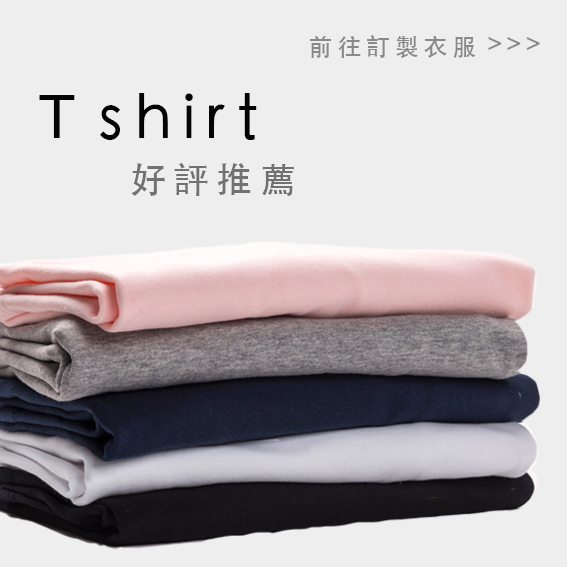
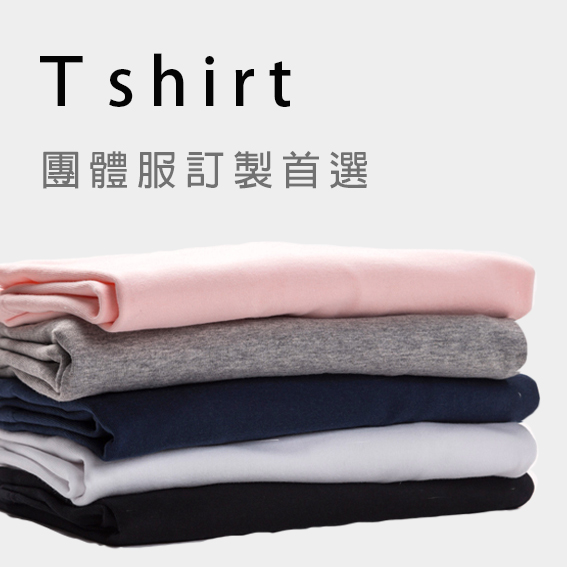
Meeting Change

diff --git a/src/views/Mainpage.vue b/src/views/Mainpage.vue
@@ -2,42 +2,47 @@
   <div>
 
     <el-row>
-      <el-col class="block">
-        <div>
-          <carousel :perPage="1" :autoplay="true" :autoplayHoverPause="true" :autoplayTimeout="3500"
-                    paginationActiveColor="#f26531" :loop="true">
-            <slide>
-              <img src="../assets/MainPage/banner1.jpg" class="carousel-img">
-            </slide>
-            <slide>
-              <div @click="product('Tshirt')" class="bannerClick"><img src="../assets/MainPage/banner2.jpg"
-                                                                       class="carousel-img"></div>
-            </slide>
-            <slide>
-              <div @click="goMaterial()" class="bannerClick"><img src="../assets/MainPage/banner3.jpg"
-                                                                  class="carousel-img"></div>
-            </slide>
-          </carousel>
-        </div>
-      </el-col>
-    </el-row>
-
-    <el-row>
 
       <div id="sm">
+
+        <el-row>
+          <el-col class="block">
+            <div>
+              <carousel :perPage="1" :autoplay="true" :autoplayHoverPause="true" :autoplayTimeout="3500"
+                        paginationActiveColor="#f26531" :loop="true">
+                <slide>
+                  <div @click="goProduct()" class="bannerClick"><img src="../assets/MainPage/banner7.jpg"
+                                                                     class="carousel-img"></div>
+                </slide>
+                <slide>
+                  <img src="../assets/MainPage/banner1.jpg" class="carousel-img">
+                </slide>
+                <slide>
+                  <div @click="product('Tshirt')" class="bannerClick"><img src="../assets/MainPage/banner2.jpg"
+                                                                           class="carousel-img"></div>
+                </slide>
+                <slide>
+                  <div @click="goMaterial()" class="bannerClick"><img src="../assets/MainPage/banner3.jpg"
+                                                                      class="carousel-img"></div>
+                </slide>
+              </carousel>
+            </div>
+          </el-col>
+        </el-row>
+
         <el-row type="flex" justify="center">
           <el-col>
             <el-row>
               <el-col :span="5">
                 <div class="decoration">
-                  <h3 class="features-title">客製產品</h3>
+                  <h3 class="features-title">客製團體服</h3>
                 </div>
               </el-col>
             </el-row>
             <el-row class="items" justify="space-between" type="flex" :gutter="20">
               <el-col :sm="6">
                 <div @click="product('Tshirt')" class="item">
-                  <img src="../../src/assets/MainPage/小圖1_test.jpg" class="features-img">
+                  <img src="../../src/assets/MainPage/小圖1.jpg" class="features-img">
                   <div class="middle">
                     <div class="text">前往商品頁面</div>
                   </div>
@@ -45,7 +50,7 @@
               </el-col>
               <el-col :sm="6">
                 <div @click="product('Hoodie')" class="item">
-                  <img src="../../src/assets/MainPage/小圖2_test.jpg" class="features-img">
+                  <img src="../../src/assets/MainPage/小圖2.jpg" class="features-img">
                   <div class="middle">
                     <div class="text">前往商品頁面</div>
                   </div>
@@ -53,7 +58,7 @@
               </el-col>
               <el-col :sm="6">
                 <div @click="product('Polo')" class="item">
-                  <img src="../../src/assets/MainPage/小圖4_test.jpg" class="features-img">
+                  <img src="../../src/assets/MainPage/小圖4.jpg" class="features-img">
                   <div class="middle">
                     <div class="text">前往商品頁面</div>
                   </div>
@@ -61,7 +66,7 @@
               </el-col>
               <el-col :sm="6">
                 <div @click="product('Bag')" class="item">
-                  <img src="../../src/assets/MainPage/小圖5_test.jpg" class="features-img">
+                  <img src="../../src/assets/MainPage/小圖5.jpg" class="features-img">
                   <div class="middle">
                     <div class="text">前往商品頁面</div>
                   </div>
@@ -86,6 +91,35 @@
       </div>
 
       <div id="xs">
+
+        <el-row>
+          <el-col class="block">
+            <div>
+              <carousel :perPage="1" :autoplay="true" :autoplayHoverPause="true" :autoplayTimeout="3500"
+                        paginationActiveColor="#f26531" :loop="true">
+                <slide>
+                  <img src="../assets/MainPage/b1.jpg" class="carousel-img">
+                </slide>
+                <!--<slide>-->
+                  <!--<div @click="goProduct()" class="bannerClick"><img src="../assets/MainPage/banner7.jpg"-->
+                                                                     <!--class="carousel-img"></div>-->
+                <!--</slide>-->
+                <!--<slide>-->
+                  <!--<img src="../assets/MainPage/banner1.jpg" class="carousel-img">-->
+                <!--</slide>-->
+                <!--<slide>-->
+                  <!--<div @click="product('Tshirt')" class="bannerClick"><img src="../assets/MainPage/banner2.jpg"-->
+                                                                           <!--class="carousel-img"></div>-->
+                <!--</slide>-->
+                <!--<slide>-->
+                  <!--<div @click="goMaterial()" class="bannerClick"><img src="../assets/MainPage/banner3.jpg"-->
+                                                                      <!--class="carousel-img"></div>-->
+                <!--</slide>-->
+              </carousel>
+            </div>
+          </el-col>
+        </el-row>
+
         <el-row type="flex" justify="center">
           <el-col>
             <el-row type="flex" justify="center">
@@ -98,7 +132,7 @@
             <el-row class="items" justify="space-between" type="flex" :gutter="20">
               <el-col :span="12">
                 <div @click="product('Tshirt')" class="item">
-                  <img src="../../src/assets/MainPage/小圖1_test.jpg" class="features-img">
+                  <img src="../../src/assets/MainPage/小圖1.jpg" class="features-img">
                   <div class="middle">
                     <div class="text">前往商品頁面</div>
                   </div>
@@ -106,7 +140,7 @@
               </el-col>
               <el-col :span="12">
                 <div @click="product('Hoodie')" class="item">
-                  <img src="../../src/assets/MainPage/小圖2_test.jpg" class="features-img">
+                  <img src="../../src/assets/MainPage/小圖2.jpg" class="features-img">
                   <div class="middle">
                     <div class="text">前往商品頁面</div>
                   </div>
@@ -116,7 +150,7 @@
             <el-row class="items" justify="space-between" type="flex" :gutter="20">
               <el-col :span="12">
                 <div @click="product('Polo')" class="item">
-                  <img src="../../src/assets/MainPage/小圖4_test.jpg" class="features-img">
+                  <img src="../../src/assets/MainPage/小圖4.jpg" class="features-img">
                   <div class="middle">
                     <div class="text">前往商品頁面</div>
                   </div>
@@ -124,7 +158,7 @@
               </el-col>
               <el-col :span="12">
                 <div @click="product('Bag')" class="item">
-                  <img src="../../src/assets/MainPage/小圖5_test.jpg" class="features-img">
+                  <img src="../../src/assets/MainPage/小圖5.jpg" class="features-img">
                   <div class="middle">
                     <div class="text">前往商品頁面</div>
                   </div>
@@ -182,6 +216,9 @@
       },
       goMaterial(){
         this.$router.push({name: '布料材質'});
+      },
+      goProduct(){
+        this.$router.push({name: '商品清單'});
       }
 
     },

diff --git a/src/App.vue b/src/App.vue
@@ -23,7 +23,7 @@
               <el-menu-item index="/techniques" class="menu_title">印刷技術</el-menu-item>
               <el-menu-item index="/howtomaintain" class="menu_title">保養方式</el-menu-item>
             </el-submenu>
-            <el-menu-item index="/products">商品清單</el-menu-item>
+            <el-menu-item index="/products">訂製商品</el-menu-item>
             <el-menu-item index="/portfolio">歷年作品</el-menu-item>
             <el-menu-item index="/connectus">聯絡我們</el-menu-item>
 
@@ -39,7 +39,7 @@
             <el-dropdown-menu slot="dropdown">
               <el-dropdown-item command="home">首頁</el-dropdown-item>
               <el-dropdown-item command="about">關於我們</el-dropdown-item>
-              <el-dropdown-item command="products">商品清單</el-dropdown-item>
+              <el-dropdown-item command="products">訂製商品</el-dropdown-item>
               <el-dropdown-item command="portfolio">歷年作品</el-dropdown-item>
               <el-dropdown-item command="connectus">聯絡我們</el-dropdown-item>
             </el-dropdown-menu>
@@ -142,7 +142,8 @@
 
   #app {
     background-color: #e6e6e6;
-    font-family: Helvetica, "Hiragino Sans GB", sans-serif;
+    font-family: "Microsoft YaHei", sans-serif;
+    /*font-family: Helvetica,"Microsoft YaHei";*/
   }
 
   #container {

diff --git a/src/views/ConnectUs.vue b/src/views/ConnectUs.vue
@@ -240,10 +240,6 @@
 
             console.log(reqParam);
 
-//            this.$http.options.xhr = {withCredentials: true};
-//            this.$http.options.emulateJSON = true;
-//            this.$http.options.credentials = true;
-
             this.$http.post('http://localhost:3000/uploadfile',
               {
                 reqParam
@@ -251,8 +247,6 @@
               {
                 headers: {
                   'Content-type': 'application/json;charset=UTF-8',
-//                  'Content-Type' : 'application/x-www-form-urlencoded; charset=UTF-8',
-//                  'Access-Control-Allow-Origin' : '*',
                 }
               }).then((res) => {
               let data = res.data;
@@ -277,23 +271,6 @@
 
       resetForm(formName) {
         this.$refs[formName].resetFields();
-      },
-
-      handleRemove(file, fileList) {
-        console.log(file, fileList);
-      },
-
-      handlePreview(file) {
-        console.log(file);
-      },
-
-      handleExceed(files, fileList) {
-        console.log(fileList);
-        this.$message.warning(`限制選擇 1 個文件，您選擇了 ${files.length} 個文件，共選擇了 ${files.length + fileList.length} 個文件`);
-      },
-
-      letsSee(file, fileList){
-        console.log(fileList);
       },
 
       processFile(event) {
